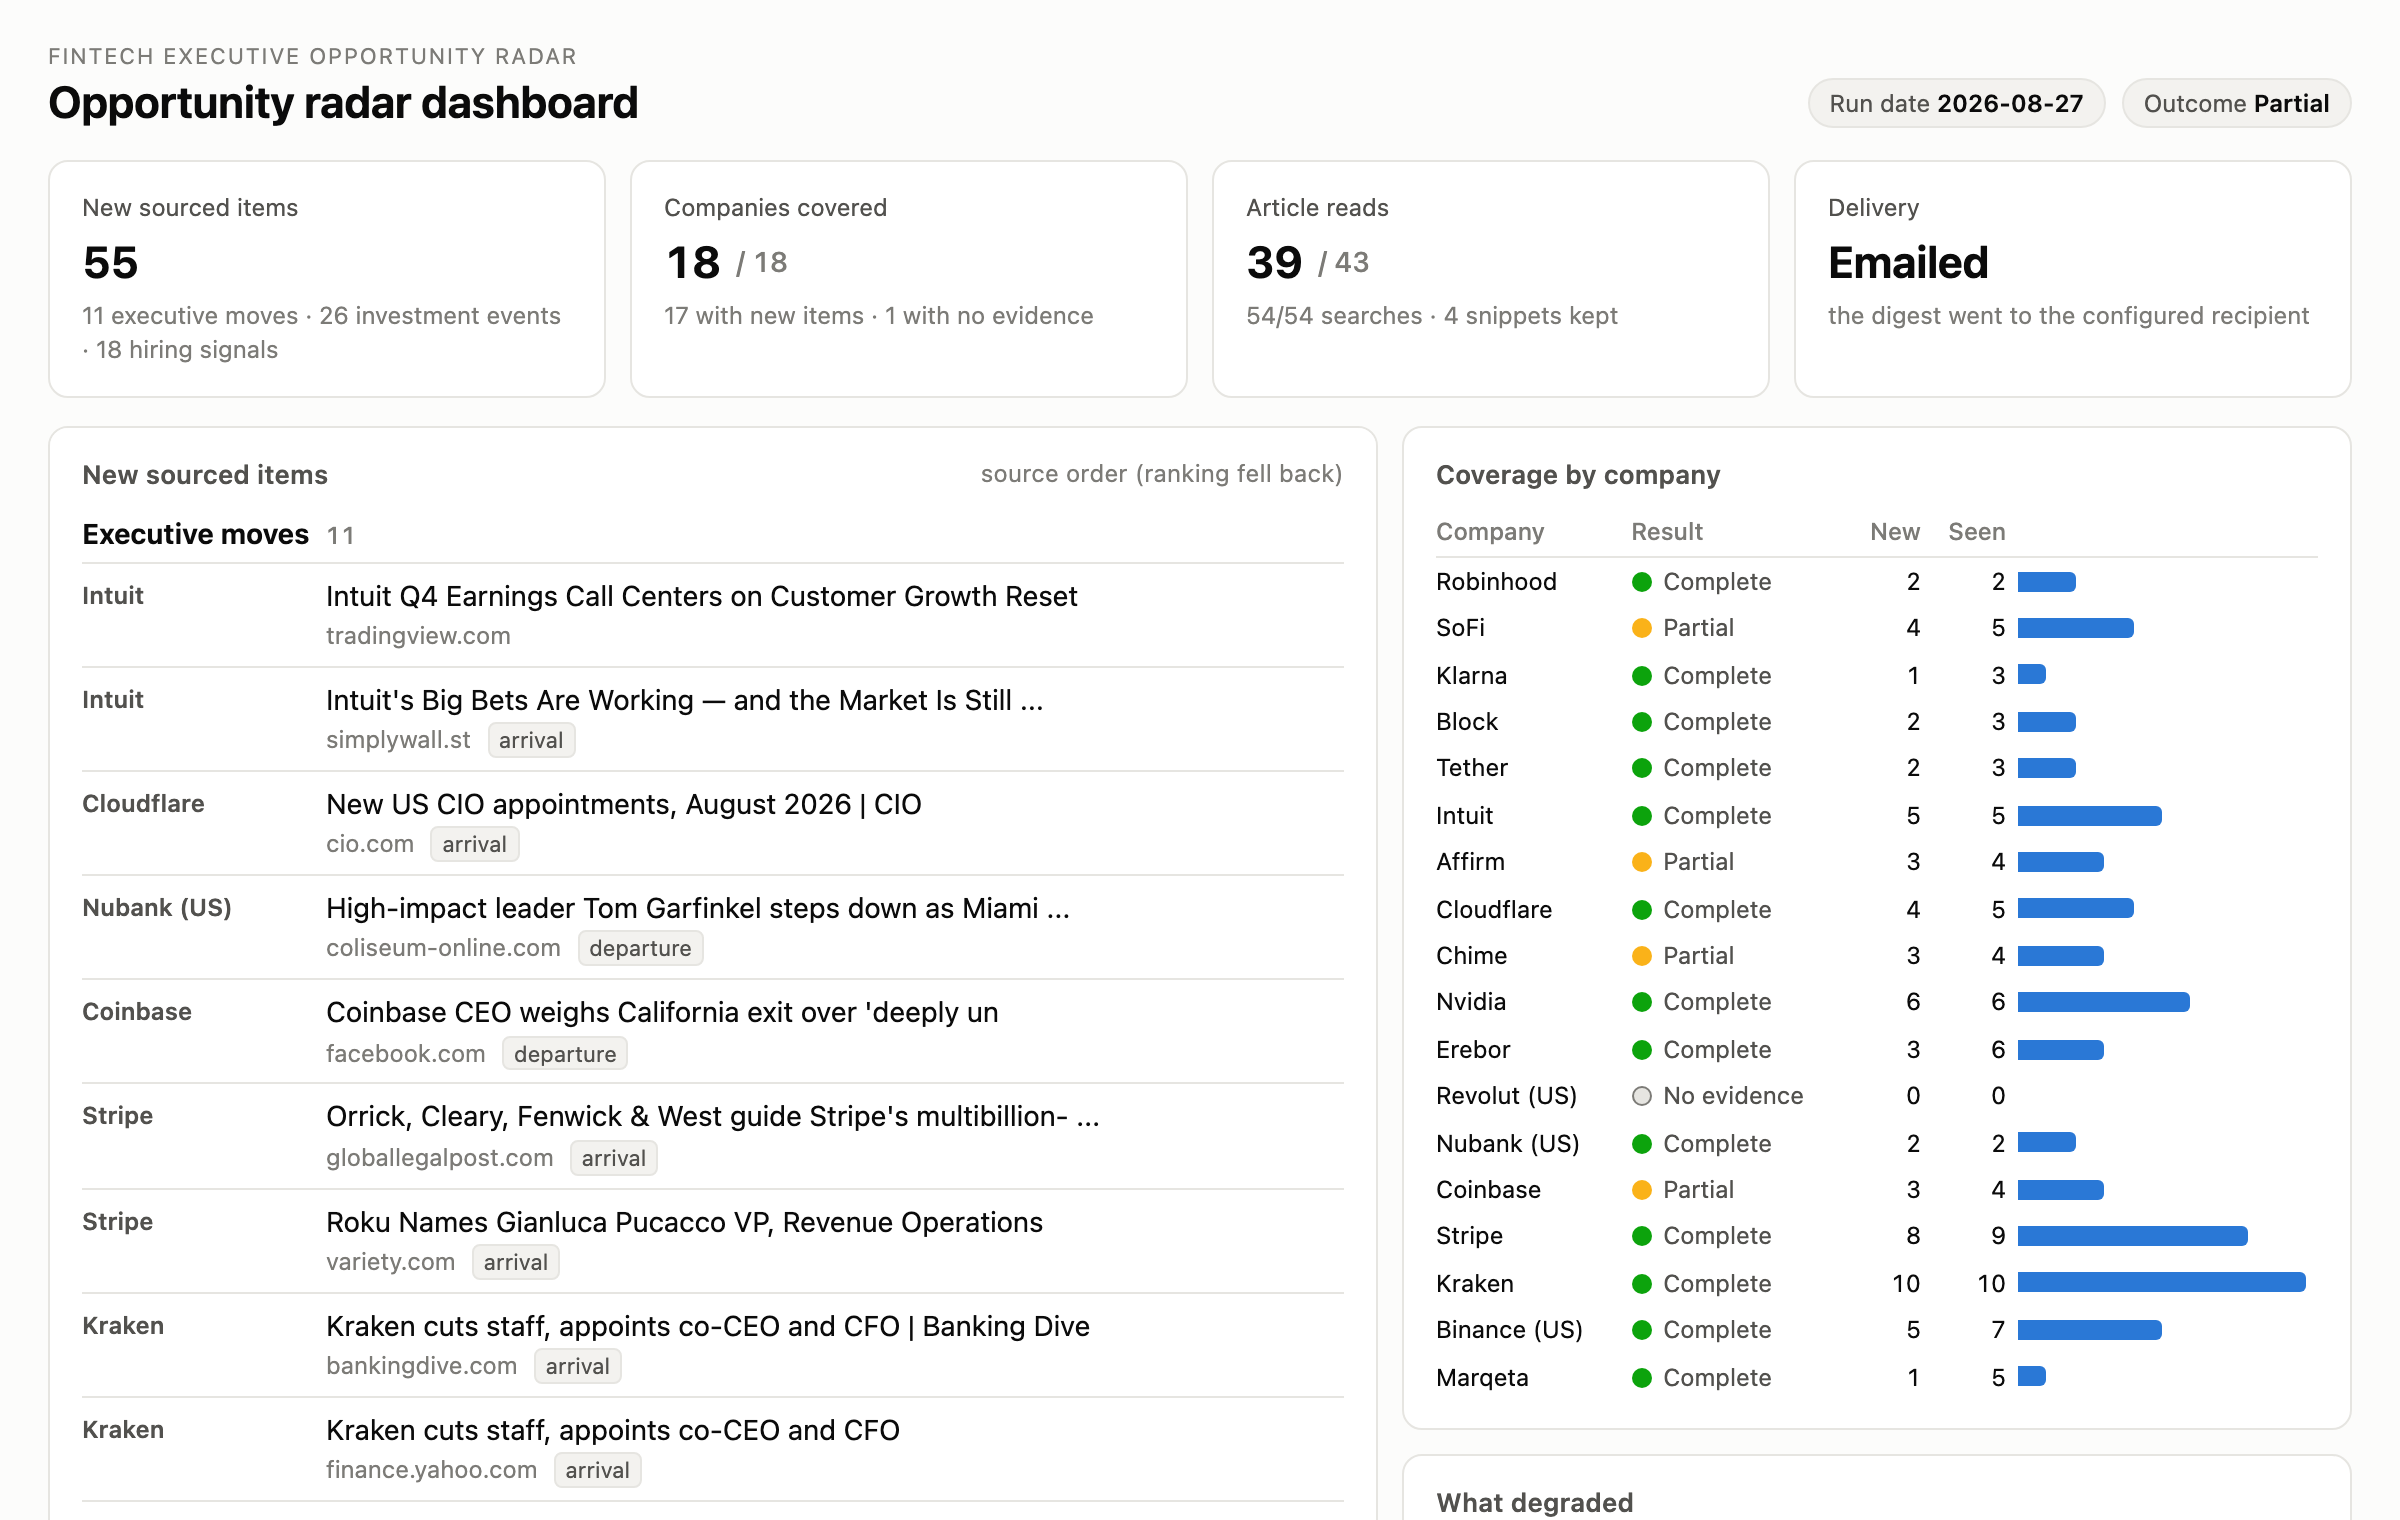
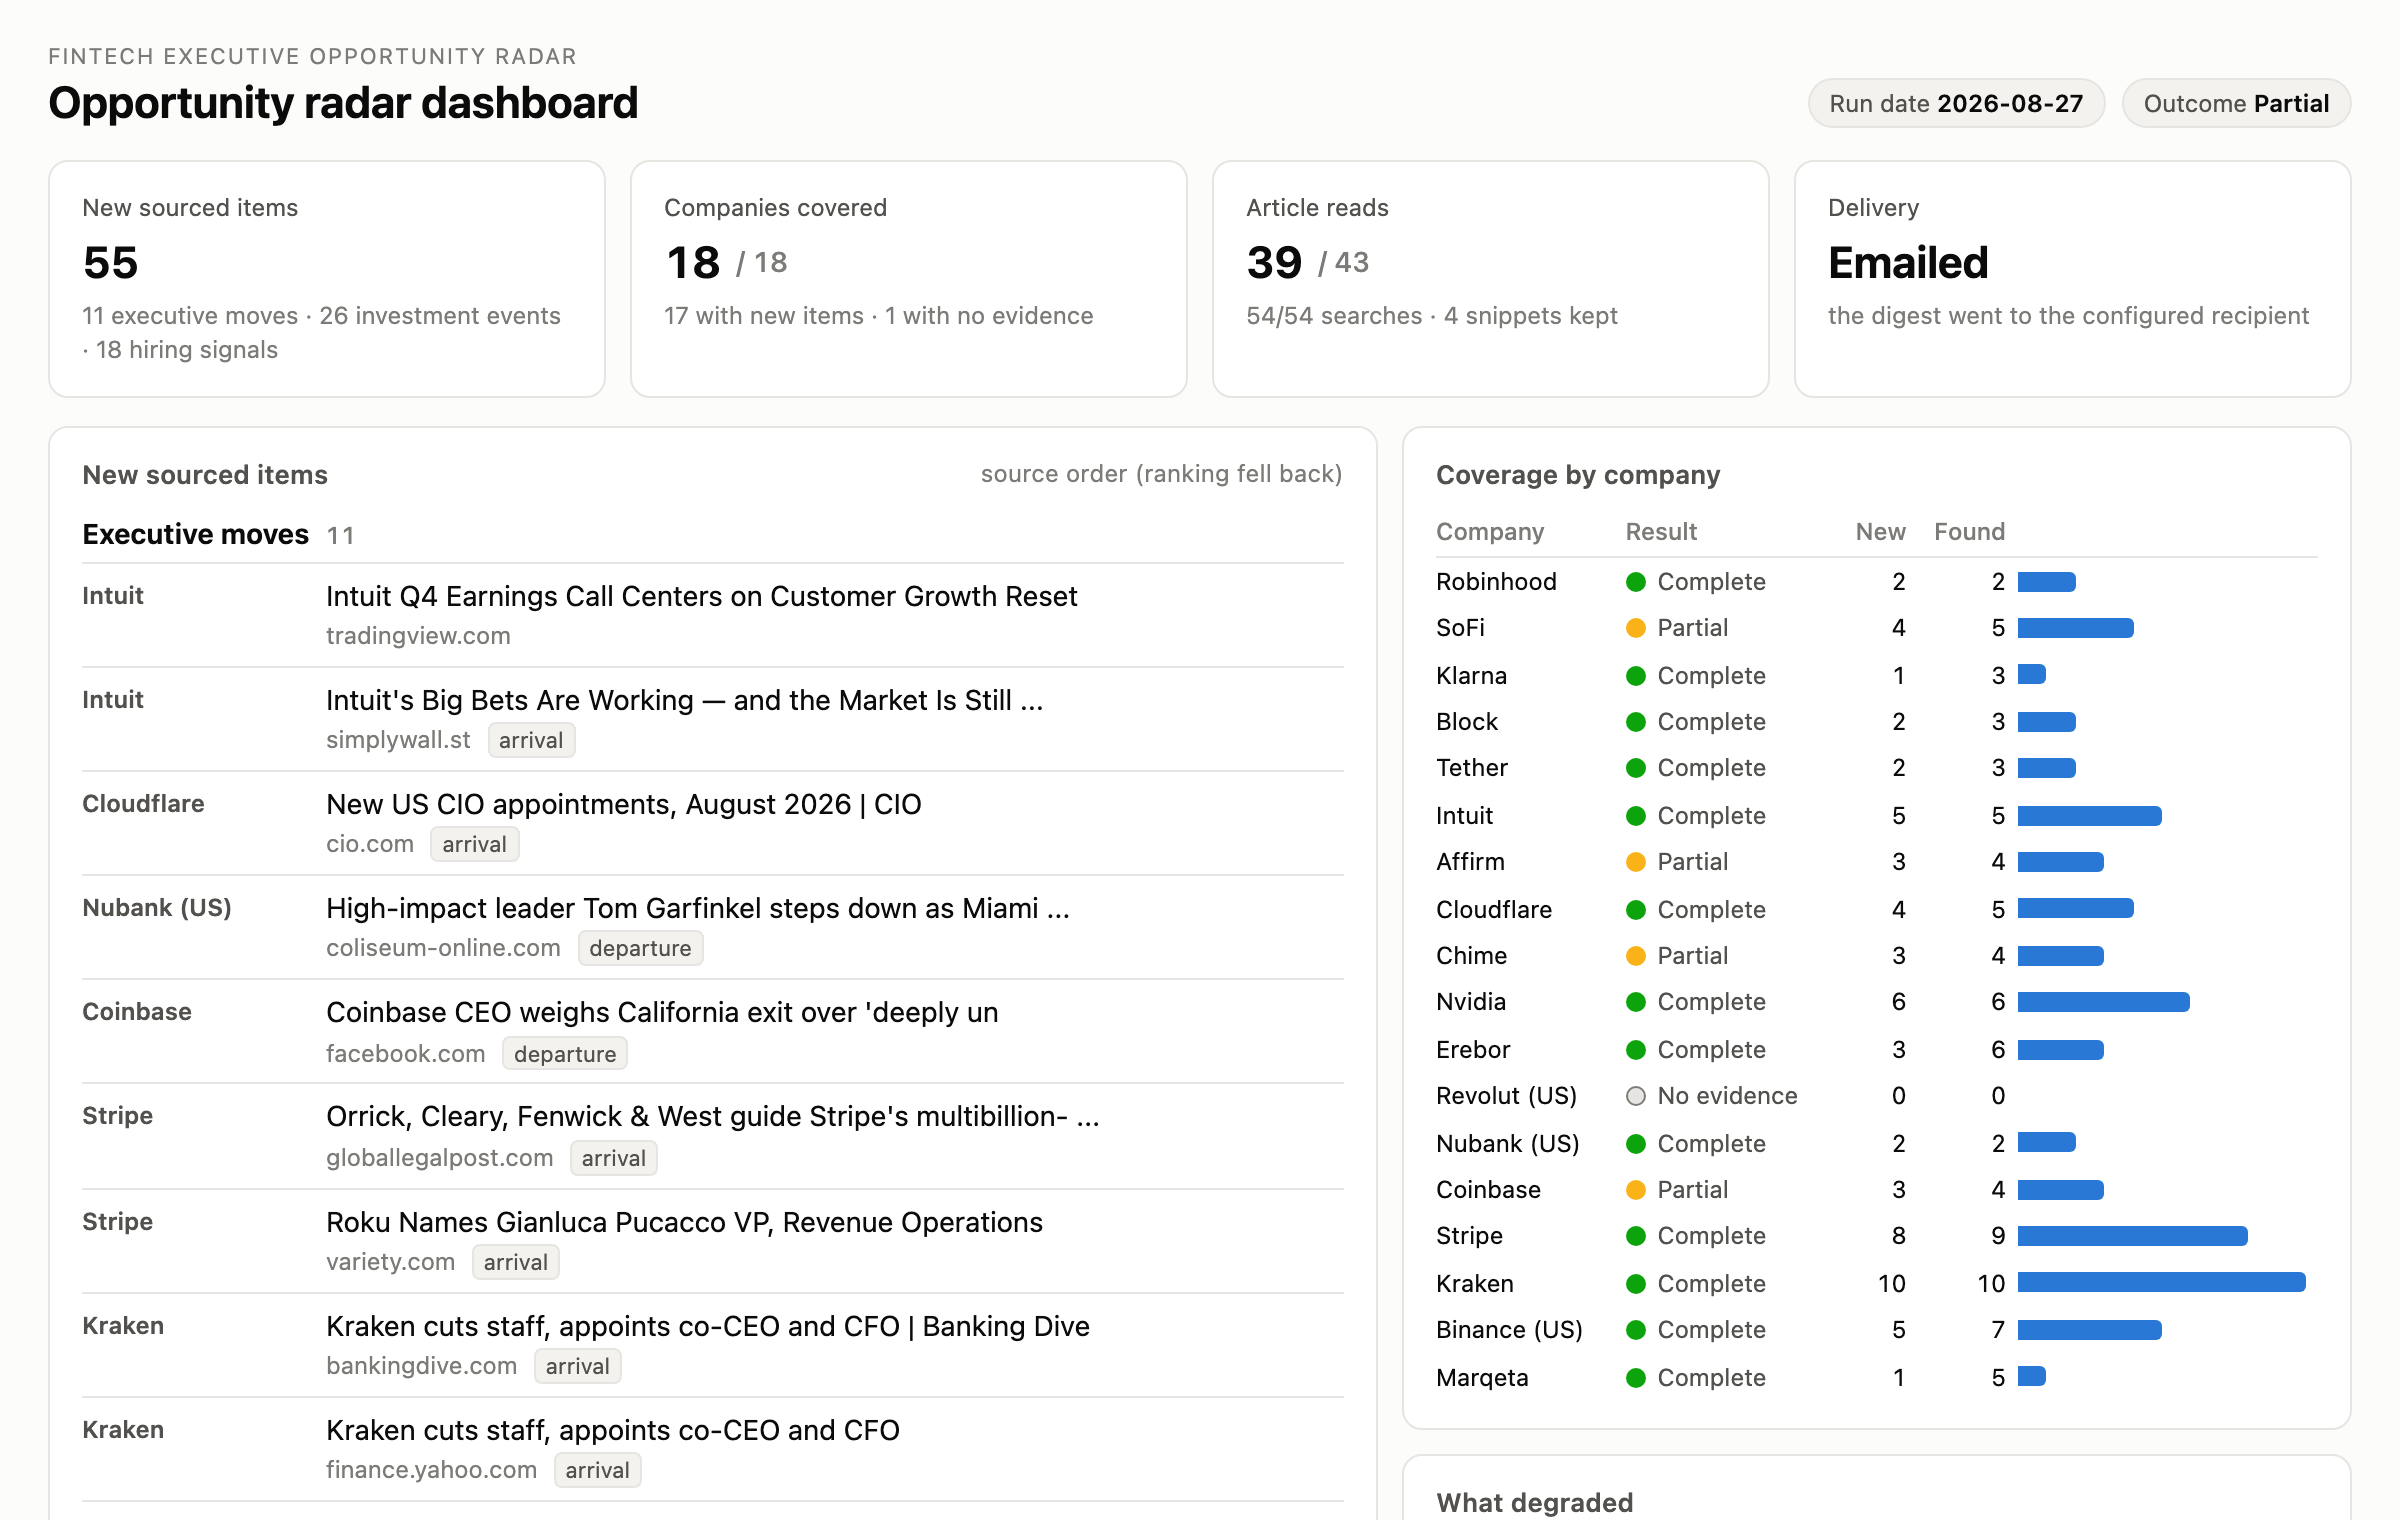
fix(examples): label the radar dashboard's counts correctly and widen its run scan [SAP-3315]
Review round 1 on #1118. The coverage table's second count is the agent's
observedItems, which includes the new items (prepare returns fresh as a
subset of observed), so "Seen" overstated previously reported sources. The
column is now "Found", with New as its subset.

The live read now inspects up to 10 root-run details instead of 5. Dry-run
previews carry no child key and so use a detail read each; a few previews
run after a radar run are plausible, and they should not push the page back
to the captured run. The failure text names both limits it hit.

Claude-Session: https://claude.ai/code/session_01BBm74Lgvznyz24N7rnXBLM

Changed region(s): [[0.6875, 0.3401, 0.75, 0.9276], [0.7812, 0.3401, 0.8438, 0.3711], [0.7812, 0.8349, 0.8125, 0.8658]]

diff --git a/examples/fintech-exec-radar/app/index.html b/examples/fintech-exec-radar/app/index.html
@@ -489,7 +489,7 @@
             return `<tr class="o-${esc(outcome)}"><td class="name" title="${esc(c.company)}">${esc(c.company)}</td><td class="state"><span class="dot" aria-hidden="true"></span>${esc(OUTCOME_LABEL[outcome] ?? outcome ?? "—")}</td><td class="num">${fmtNum(n)}</td><td class="num">${fmtNum(c.observedItems)}</td><td class="bar"><span class="fill" style="width:${((n / max) * 100).toFixed(2)}%"></span></td></tr>`;
           })
           .join("");
-        return `<table class="cov"><thead><tr><th>Company</th><th>Result</th><th class="num">New</th><th class="num">Seen</th><th></th></tr></thead><tbody>${rows}</tbody></table>`;
+        return `<table class="cov"><thead><tr><th>Company</th><th>Result</th><th class="num">New</th><th class="num" title="Relevant sources found this run, new ones included">Found</th><th></th></tr></thead><tbody>${rows}</tbody></table>`;
       }
 
       function renderGaps(unmet, failed) {

diff --git a/examples/fintech-exec-radar/README.md b/examples/fintech-exec-radar/README.md
@@ -134,7 +134,7 @@ ranking, and optional email delivery.
 ## Dashboard
 
 `app/` is the dashboard this template ships (`node server.mjs`): the new sourced
-items grouped by signal, each company's result and item counts, and the steps
+items grouped by signal, each company's result with new and found item counts, and the steps
 that degraded, all read from the latest radar run. See `app/README.md`.
 `preview.png` is its screenshot, referenced from `template.json` → `app.preview`.
 

diff --git a/examples/fintech-exec-radar/app/README.md b/examples/fintech-exec-radar/app/README.md
@@ -1,7 +1,7 @@
 # Opportunity radar dashboard
 
 The page this template ships beside its agent: the new sourced items grouped by
-signal, each company's result with its new and seen item counts, the run-health
+signal, each company's result with its new and found item counts, the run-health
 counters, and the steps that degraded. Every headline and every count on it
 comes from a run of the agent.
 
